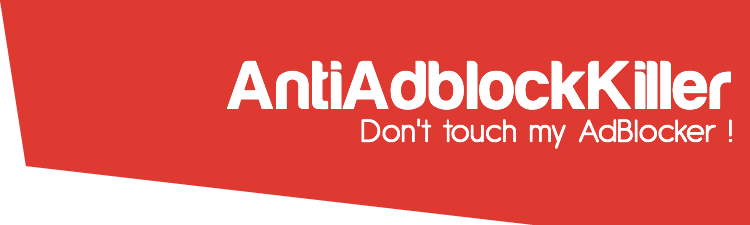
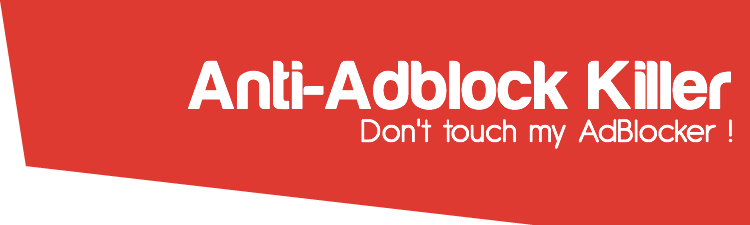
-

Changed region(s): [[0.2453, 0.2489, 0.7973, 0.4978]]

diff --git a/README.md b/README.md
@@ -1,5 +1,5 @@
-##AntiAdblockKiller | Reek
-![AntiAdblockKiller](https://raw.githubusercontent.com/reek/anti-adblock-killer/master/img/header.png)
+##Anti-Adblock Killer | Reek
+![Anti-Adblock Killer](https://raw.githubusercontent.com/reek/anti-adblock-killer/master/img/header.png)
 
 ## /!\ IMPORTANT /!\
 > **THIS IS NOT A UNIVERSAL SOLUTION FOR ALL ANTI ADBLOCK SCRIPTS**
@@ -63,7 +63,7 @@ Anti-Adblock Killer is a userscript whose functionality is removes many protecti
 
 ## Features
 * Detect & Kill Anti-Adblock Systems
-* Detect AntiAdblockKiller Filterlist
+* Detect Anti-Adblock Killer Filterlist
 * Check & Notify updates
 * More filters for Adblockers
 * [Suggest features](https://github.com/reek/anti-adblock-killer/issues)
@@ -75,9 +75,9 @@ Anti-Adblock Killer is a userscript whose functionality is removes many protecti
 
 ## Help
 1. Check if script manager is activated. (Greasemonkey, Tampermonkey, NinjaKit).
-2. Check if AntiAdblockKiller is activated.
+2. Check if Anti-Adblock Killer is activated.
 3. Check if you have installed the latest version of Anti AdBlock Killer | Userscript
-4. Check if you have subscribe to AntiAdblockKiller | Filters for Adblockers - [Subscribe](http://bc.vc/jGFxOb)
+4. Check if you have subscribe to Anti-Adblock Killer | Filters for Adblockers - [Subscribe](http://bc.vc/jGFxOb)
 5. Check if you have another userscript not interfere with Anti AdBlock Killer.
 6. Disable userscripts: Anti-AntiBlock Plus, Anti-Adblocker, because it can generate the conflict.
 7. Disable add-ons: Disable Anti-Adblock 3.1, Ghostery, Online Security Avast, Donotrackme, Kaspersky Anti-Banner, Freebox (Anti-pub), because it can generate the conflict.
@@ -130,7 +130,7 @@ Anti-Adblock Killer is a userscript whose functionality is removes many protecti
 * Fixed: file4go.com
 * Fixed: play.tv
 * Improved: notification box
-* New: AntiAdblockKiller on Twitter
+* New: Anti-Adblock Killer on Twitter
 * New: icon
 
 ##### Version 7.4 (July 22, 2014)
@@ -271,9 +271,9 @@ Anti-Adblock Killer is a userscript whose functionality is removes many protecti
 * Improved: core userscript
 
 ##### Version 7.1 (May 14, 2014)
-* New: AntiAdblockKiller on Greasefork.org
-* New: AntiAdblockKiller on Openuserjs.org
-* New: AntiAdblockKiller on Github.com
+* New: Anti-Adblock Killer on Greasefork.org
+* New: Anti-Adblock Killer on Openuserjs.org
+* New: Anti-Adblock Killer on Github.com
 * Added: support Tampermonkey (Opera)
 * Added: feature detect Anti-Adblock Killer Filters
 * Added: ftlwiki.com
